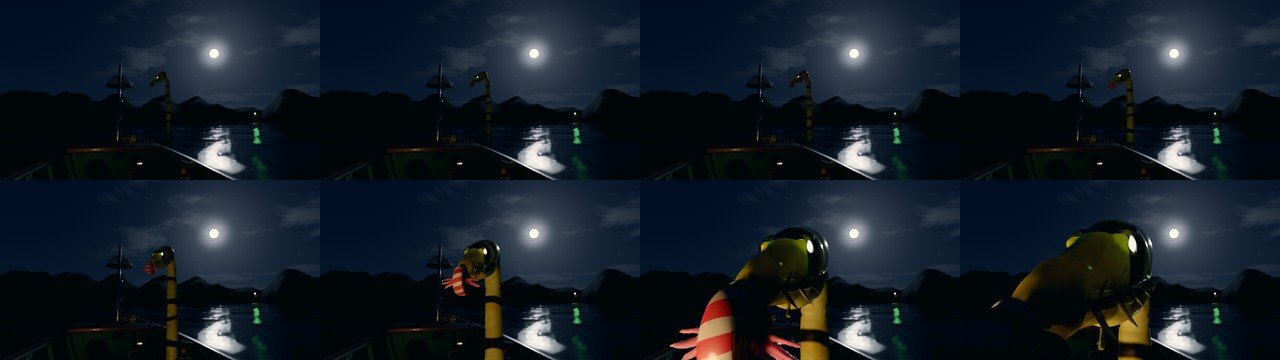
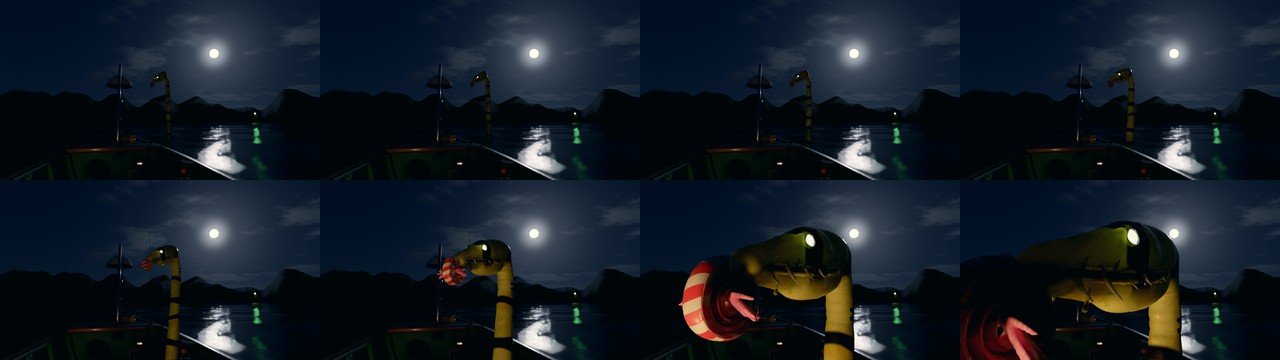
Lavori in corso degli agenti di Archie, Lampy e Fangy
Claude-Session: https://claude.ai/code/session_01EnpEiCdqMobb6kXAdCVCvL

diff --git a/tools/render/fangy.py b/tools/render/fangy.py
@@ -24,8 +24,9 @@ Le parti che si muovono, per le toppe del gioco (come palpebre e aggrotta di rob
 testa sul collo di tanti gradi (positivi verso la sinistra di Fangy, che è +X), con le zanne, gli occhialini, la bava e
 le lucine della testa: il gioco la fa scattare verso ogni rumore. Il corpo resta lo stesso, oggetto per oggetto
 (cambiano solo 'FangyHead' e i pezzi della testa). Le lucine sono oggetti separati, una per oggetto, in fila:
-'FangyLight00', 'FangyLight01', … prima le file del ventre, dalla gola verso l'acqua, poi quelle della testa (LUCI
-dice quante sono e di che fila): il gioco le farà pulsare e accendere in fila da solo, come le luci degli occhi.
+'FangyLight00', 'FangyLight01', … prima le file del ventre, dalla gola verso l'acqua, poi quelle della testa; ogni
+lucina porta la sua fila ('fila') e il suo centro ('centro', coordinate di Fangy) come proprietà dell'oggetto: il
+gioco le farà pulsare e accendere in fila da solo, come le luci degli occhi.
 build(luci=…) è quanto brillano nel render (1 accese come nella tavola, 0 spente).
 
 Uso: tools/.venv/bin/python tools/render/fangy.py [--fast]          vetrina → docs/concept/fangy_vetrina.jpg
@@ -64,8 +65,8 @@ RES_HEAD = 0.0030 if FAST else 0.0017     # la testa con le fossette e gli occhi
 
 HEAD = V(0.0, -0.19, 0.85)                # centro della testa, come nella tavola
 K_TESTA = 1.14                            # la testa A della tavola è più grande del vero
-CHINA, PIEGA = 10.0, 6.0                  # la testa china e piegata di lato (chi ascolta), come nella tavola
-CHINA_TAVOLA = 3.8                        # di quanti gradi la camera della tavola stava sopra la testa
+PIEGA = 6.0                               # la testa piegata di lato (chi ascolta), come nella tavola
+CHINA = 3.0                               # gradi: la faccia punta appena sotto il pescatore
 COLLO = V(0.0, 0.12, -0.04)               # nel sistema della testa: dove entra il collo (e il perno su cui gira)
 COLLO_R = 0.10
 R_ZONA = 0.40                             # la sfera della testa: ci sta a ogni giro, con la carne che si raccorda
@@ -73,20 +74,21 @@ R_ZONA = 0.40                             # la sfera della testa: ci sta a ogni 
 # la posa di gioco (scena_creature.fangy_posa) in coordinate locali, arrotondata: è quella che build() fa senza
 # parametri. Nel gioco i numeri si ricalcolano dalla barca.
 POSA = {
-    'viewer': (0.0, -1.9, 0.45),
+    'viewer': (0.0, -1.93, 1.12),
 }
 
 
 def testa_frame(viewer, testa=0.0):
-    """Il sistema della testa (teste_fangy.Head) e il punto del collo. A riposo la testa guarda il pescatore: girata
-    verso di lui (±35° al massimo), piegata di lato come nella tavola, e china quanto basta perché lui la veda come la
-    vedeva la camera della tavola (lì la camera stava 3,8° sopra la testa e la testa era china di 10°: dall'occhio, che
-    sta più in alto, la visiera ossea nasconderebbe gli occhialini). Il collo ci entra dove vuole il corpo; testa =
-    gradi in più attorno all'asse verticale per il collo (il corpo non si muove)."""
+    """Il sistema della testa (teste_fangy.Head) e il punto del collo. A riposo la testa punta la faccia sul
+    pescatore, gli occhialini ciechi fissi su di lui: girata verso di lui (±35° al massimo), alzata quanto serve
+    (CHINA gradi sotto i suoi occhi) e piegata di lato come nella tavola. Nella tavola la testa era china di 10° con la
+    camera quasi alla sua altezza; il pescatore sta più in alto, e con la testa china la visiera ossea gli
+    nasconderebbe le lenti nere. Il collo ci entra dove vuole il corpo; testa = gradi in più attorno all'asse
+    verticale per il collo (il corpo non si muove)."""
     d = V(*viewer) - HEAD
     yaw = max(-35.0, min(35.0, math.degrees(math.atan2(float(d[0]), float(-d[1])))))
     su = math.degrees(math.atan2(float(d[2]), float(np.hypot(d[0], d[1]))))
-    china = max(-15.0, min(20.0, CHINA + CHINA_TAVOLA - su))
+    china = max(-15.0, min(20.0, CHINA - su))
     fr0 = TF.Head(HEAD, yaw=yaw, pitch=china, roll=PIEGA, scale=K_TESTA)
     neck = fr0.pt(COLLO)
     fr = TF.Head(HEAD, yaw=yaw, pitch=china, roll=PIEGA, scale=K_TESTA)
@@ -175,7 +177,7 @@ def build(viewer=None, testa=0.0, luci=1.0, solo_testa=False):
     """Fangy nell'acqua, in coordinate locali. viewer: dove guarda la testa a riposo (il pescatore); testa: gradi di
     giro della testa sul collo (positivi verso la sinistra di Fangy); luci: quanto brillano le lucine (0..1).
     La pelle è tagliata in due mesh che combaciano: 'FangyHead' (la testa, nella sfera R_ZONA) e 'FangySkin' (il
-    corpo). Le lucine sono 'FangyLight00'… (l'ordine è in LUCI dopo la costruzione). solo_testa=True fa solo la testa
+    corpo). Le lucine sono 'FangyLight00'…, in fila, con le proprietà 'fila' e 'centro'. solo_testa=True fa solo la testa
     con i suoi pezzi e le sue lucine (per le varianti della vetrina: il corpo non cambia)."""
     P = dict(POSA)
     if viewer is not None:
@@ -224,14 +226,14 @@ def build(viewer=None, testa=0.0, luci=1.0, solo_testa=False):
         ordine += sorted(idx, key=lambda i: (-round(float(pts[i, 2]), 3), float(pts[i, 0])))
     ordine += [i for i in range(nb, len(want)) if keep[i]]
     mat = luce_material(luci)
-    LUCI.clear()
     for j, i in enumerate(ordine):
         if solo_testa and i < nb:
             continue
         c = pts[i] - nrm[i] * (rr[i] * 0.30)
         o = TF.balls(f'FangyLight{j:02d}', [c], [rr[i] * 0.95], mat)
+        o['fila'] = nomi[i]                          # la fila e il centro (coordinate di Fangy) restano sull'oggetto
+        o['centro'] = [float(x) for x in c]
         obs.append(o)
-        LUCI.append({'nome': o.name, 'fila': nomi[i], 'locale': [round(float(x), 4) for x in c]})
         if luci > 0 and j % 3 == 0:
             # un filo di luce vera sulla pelle bagnata attorno (luci della testa a parte: girano con lei)
             nome = 'FangyFotoforo' if i < nb else 'FangyFotoforoTesta'
@@ -253,10 +255,6 @@ def build(viewer=None, testa=0.0, luci=1.0, solo_testa=False):
         rip.name = 'FangyRipples'
         obs.append(rip)
     return obs
-
-
-# le lucine dell'ultima costruzione, nell'ordine dei nomi: [{'nome', 'fila', 'locale'}]
-LUCI = []
 
 
 # ───────────────────────── vetrina ─────────────────────────
@@ -334,10 +332,8 @@ def _camera(M, cl, ct, lens):
 def _testa_di(obs):
     """Gli oggetti della testa (quelli che le varianti rifanno): la pelle della testa, gli occhialini, le zanne, la
     gola, la bava e le lucine della testa."""
-    nb = sum(1 for d in LUCI if d['fila'].startswith('ventre'))
-    teste = {d['nome'] for d in LUCI[nb:]}
-    return [o for o in obs if o.name.startswith(('FangyHead', 'FangyGoggle', 'FangyFangs', 'FangyThroat', 'FangyDrool', 'FangySlime',
-                                                 'FangyFotoforoTesta')) or o.name in teste]
+    testa = ('FangyHead', 'FangyGoggle', 'FangyFangs', 'FangyThroat', 'FangyDrool', 'FangySlime', 'FangyFotoforoTesta')
+    return [o for o in obs if o.name.startswith(testa) or (o.get('fila') and not o['fila'].startswith('ventre'))]
 
 
 def showcase(shots=('insieme', 'testa', 'fuori'), varianti=True):
@@ -470,7 +466,8 @@ def ingombro(obs, M):
         'testa_m': _rel(head),
         'distanza_testa': round(float(math.dist(tuple(head), EYE)), 2),
         'quota_testa': round(float(head[2]), 2),
-        'luci': [[d['nome'], d['fila'], _rel(M @ Vector(d['locale']))] for d in LUCI],
+        'luci': [[o.name, o['fila'], _rel(o.matrix_world @ Vector(o['centro']))]
+                 for o in sorted((o for o in meshes if o.get('fila')), key=lambda o: o.name)],
     }
     for k, n in (('testa_mesh', 'FangyHead'), ('corpo', 'FangySkin'), ('zanne', 'FangyFangs')):
         o = bpy.data.objects.get(n)

diff --git a/tools/render/archie.py b/tools/render/archie.py
@@ -1,16 +1,17 @@
 """
 ARCHIE — modello definitivo (sagoma C «Periscopio», testa A «Serpente»), notte 3.
 
-Un collo sottilissimo e lunghissimo sale dritto dal mare accanto alla prua; in cima fa l'arco e la testa guarda
-giù sulla lampara, con la trombetta da festa puntata sul vetro. Viene dal serpente di mare del Mediterraneo
+Un collo sottilissimo e lunghissimo sale dritto dal mare accanto alla prua, come un periscopio; in cima si piega in
+avanti e la testa guarda giù sulla lampara dall'alto, con la trombetta da festa puntata sul vetro. Viene dal serpente di mare del Mediterraneo
 (Ophisurus serpens): un'anguilla serpentiforme, il muso lungo e appuntito, i denti aguzzi fuori dalle labbra, le
 narici a tubetto in punta, la pinna bassa lungo il dorso, niente braccia. Da bambino, alle feste di compleanno al
 parco, spegneva lui le candeline degli altri bambini: ora soffia sulla lampara. La trombetta (la lingua di Menelik
 di carta a strisce, con la piuma in punta) ha il bocchino fuso nelle labbra.
 
 La testa è la A «Serpente» della tavola (teste_archie.archie_a) rifinita: più fine (è quella che nel jumpscare ti
-arriva in faccia), le arcate sopra gli occhi un po' aggrottate, le labbra col bordo, i denti più lunghi davanti e
-storti come quelli di una murena, le pieghe della gola. Colori approvati (10 ottobre), quelli della tavola: giallo
+arriva in faccia), gli occhi più piccoli e affondati sotto le arcate un po' aggrottate, le labbra col bordo, i denti
+più lunghi davanti e storti come quelli di una murena, le pieghe della gola. È più grande del vero (K) e la trombetta
+è lunga una volta e mezza la testa: Archie sta a cinque metri dal pescatore e deve leggersi accanto alla lampara. Colori approvati (10 ottobre), quelli della tavola: giallo
 limone pieno a bande nere che girano tutto attorno al collo, la gola giallo chiaro, la carta rossa e bianca, la
 piuma rosa; melma e chiazze di famiglia.
 
@@ -27,8 +28,11 @@ A 0 Archie è quello di sempre, oggetto per oggetto, e il collo e la testa resta
 Uso: tools/.venv/bin/python tools/render/archie.py [--fast]          vetrina → docs/concept/archie_vetrina.jpg
      tools/.venv/bin/python tools/render/archie.py [--fast] --posa   la posa di gioco nella scena della barca, vista
                                                                      dall'occhio → docs/concept/pose_archie*.jpg
-     tools/.venv/bin/python tools/render/archie.py --jumpscare-tavola   la tavola dei fotogrammi del jumpscare dagli
-                                    EXR in cache/draft/jumpscare → docs/concept/jumpscare/js_archie_fotogrammi.jpg
+     tools/.venv/bin/python tools/render/archie.py --jumpscare-tavola [draft|preview|final]   la tavola dei
+                                    fotogrammi del jumpscare dagli EXR in cache/<qualità>/jumpscare (fatti con
+                                    JS_ANTEPRIMA=1 JUMPSCARES=archie jobs.py jumpscare) → docs/concept/jumpscare/
+                                    js_archie_fotogrammi.jpg
+     --vetrina-tavola, --posa-tavole   rimontano le tavole della vetrina e della posa dai pannelli già fatti
      nella vetrina: --srotolata 1 --fiato 1 per le varianti, --solo testa,insieme per alcune inquadrature soltanto
 """
 from __future__ import annotations
@@ -337,7 +341,7 @@ def branchie(collo, s_top):
 
 
 def pieghe_arco(collo, s0, s1):
-    """Le pieghe della pelle dentro l'arco, dove il collo si piega e la carne si schiaccia (sulla gola)."""
+    """Le pieghe della pelle dentro la piega in cima al collo, dove la carne si schiaccia (sulla gola)."""
     def f(p):
         _, s, b = collo.query(p)
         m = D.smooth01(s, s0, s0 + 0.05) * (1.0 - D.smooth01(s, s1 - 0.05, s1)) * D.smooth01(-b, 0.2, 0.7)
